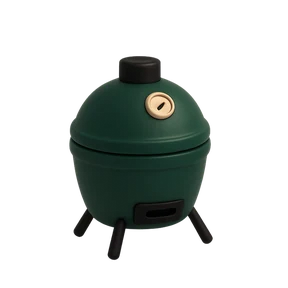
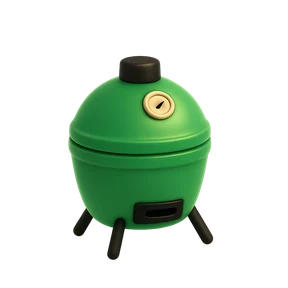
peek: brisket pictures — fat side down is the same brisket flipped, the paper reads as butcher paper, the rest has a loose towel and steam, the Egg a brighter green

Changed region(s): [[0.2188, 0.1875, 0.75, 0.9062], [0.6875, 0.7812, 0.75, 0.8438], [0.25, 0.75, 0.3125, 0.8125]]

diff --git a/peek/index.html b/peek/index.html
@@ -2111,7 +2111,7 @@ function listSet(c, items) {
 // A brisket's stages, each its own picture (bbq/*.webp): one brisket, the same size and place in every one,
 // with what's happening around it — the knife and trimmings, the rub, the grate and smoke, the paper, the probe,
 // the towel, the slices — and the Egg for setting up. Matched from the stage's words, first rule wins.
-const BBQ_PICS = [[/\brest|cooler|towel|vent/i, 'rest'], [/slic|serve|carv/i, 'slice'], [/wrap|butcher|paper|foil/i, 'wrap'],
+const BBQ_PICS = [[/fat (cap|side) down|flip/i, 'fatdown'], [/\brest|cooler|towel|vent/i, 'rest'], [/slic|serve|carv/i, 'slice'], [/wrap|butcher|paper|foil/i, 'wrap'],
   [/probe|tender|internal|thermometer|done/i, 'probe'], [/trim|square/i, 'trim'], [/\brub|season|salt|pepper|slather/i, 'rub'],
   [/set ?up|cooker|smoker|\begg\b|kamado|stabili|preheat|lump|oak|wood|charcoal|light/i, 'egg'], [/bark|stall|spritz/i, 'bark'], [/./, 'smoke']];
 const bbqPic = (c, t) => /brisket/i.test((c.dish || '') + ' ' + lastAsk) ? BBQ_PICS.find(([re]) => re.test(t))[1] : null;

diff --git a/CLAUDE.md b/CLAUDE.md
@@ -411,7 +411,8 @@ style: `plush/clipboard|groceries|calendar|pin.webp`; code under "the useful thi
   of the recipe card; it opens to the same checklist (`isRecipe()`). For a brisket each step has its picture
   (`peek/bbq/*.webp`, matched by `BBQ_PICS`): simple friendly 3D (Airbnb-icon-like, simpler, real but quiet texture, not plush) —
   **one brisket, exactly the same size and place in every picture**, with what's happening around it: base, trim, rub, smoke,
-  bark, wrap, probe, rest, slice; plus the gear in the same style (egg, charcoal, paper, cooler, thermo). Made with
+  fatdown (the same brisket flipped, fat cap on the grate), bark, wrap (creased paper, grease spots), probe, rest (a towel
+  draped loose, steam lines), slice; the Egg a brighter, livelier green; plus the gear in the same style (egg, charcoal, paper, cooler, thermo). Made with
   gpt-image-1 *edits* of one base image (`input_fidelity: high`), then each scaled so its brisket matches the base and all
   cropped to one shared square — the model drifts the size by up to 25%, so the normalising step is not optional.
   **Opened, a recipe is one white page that scrolls whole** (`.tui.page`): 24 a side, page to page, two columns — the book
